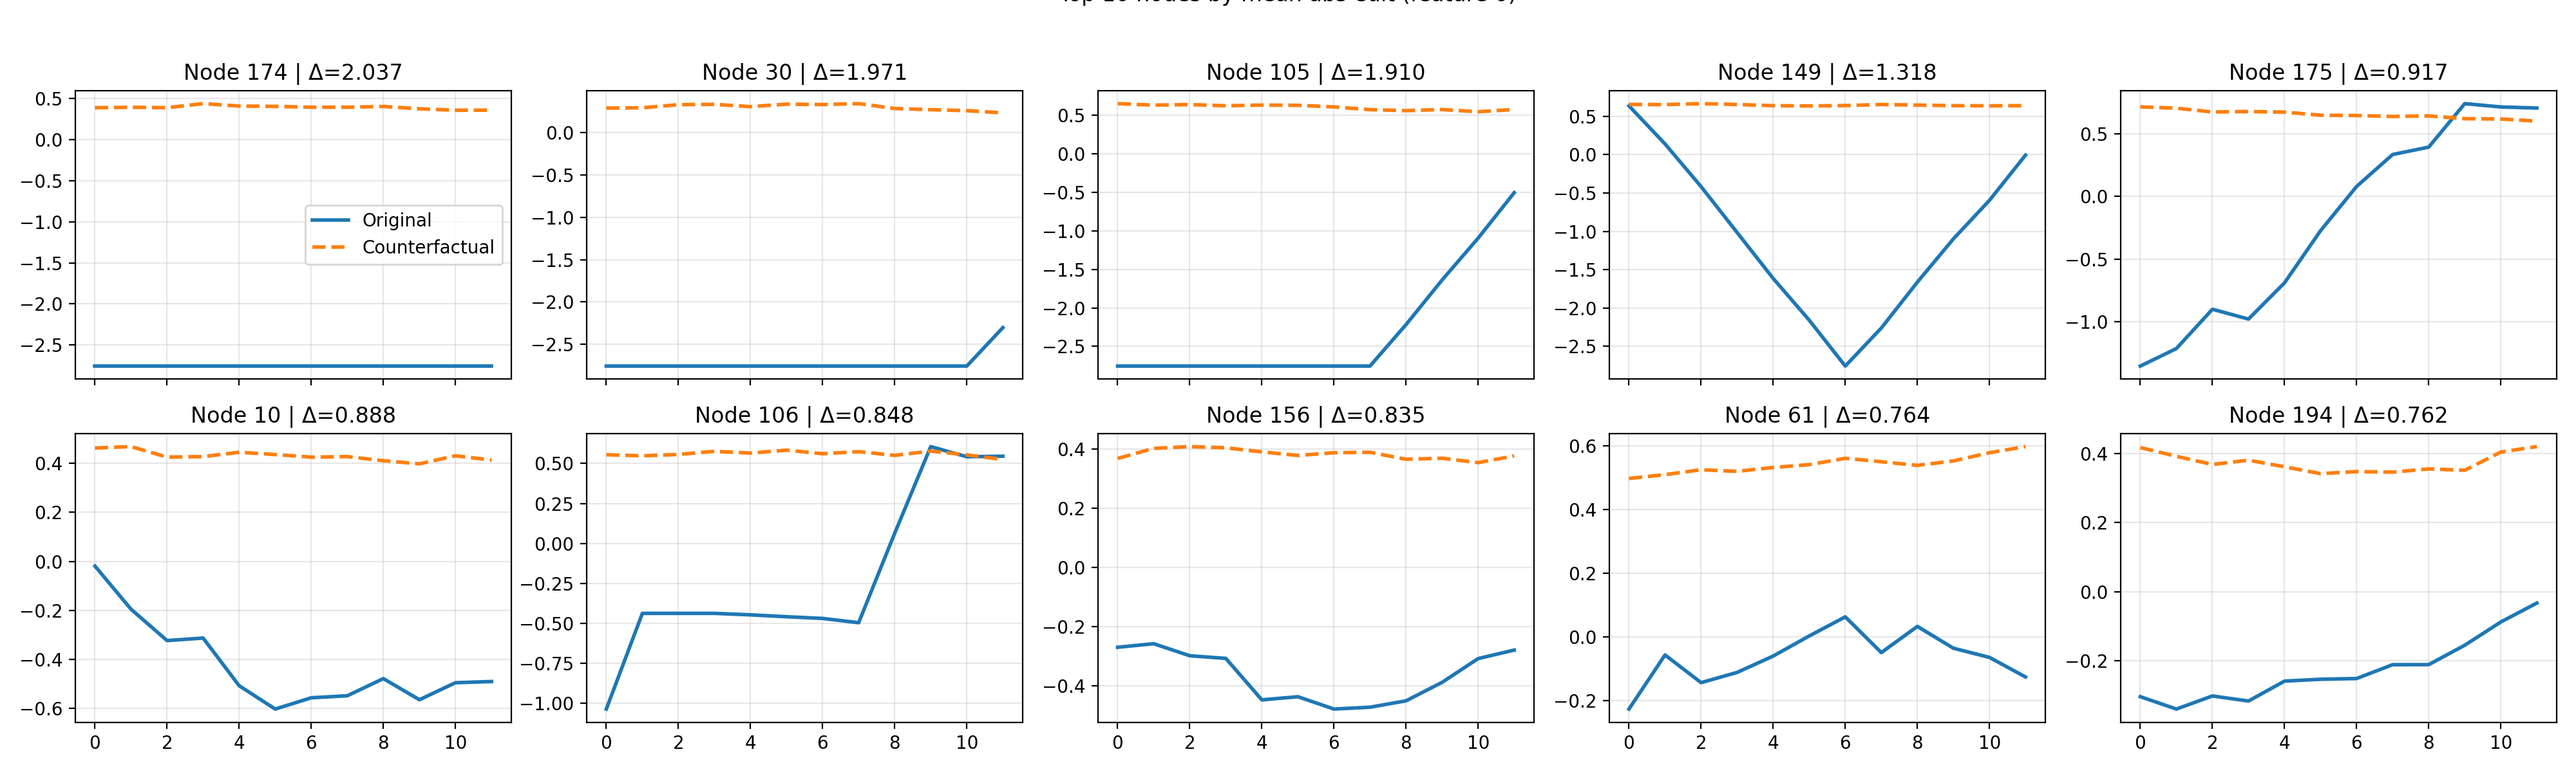
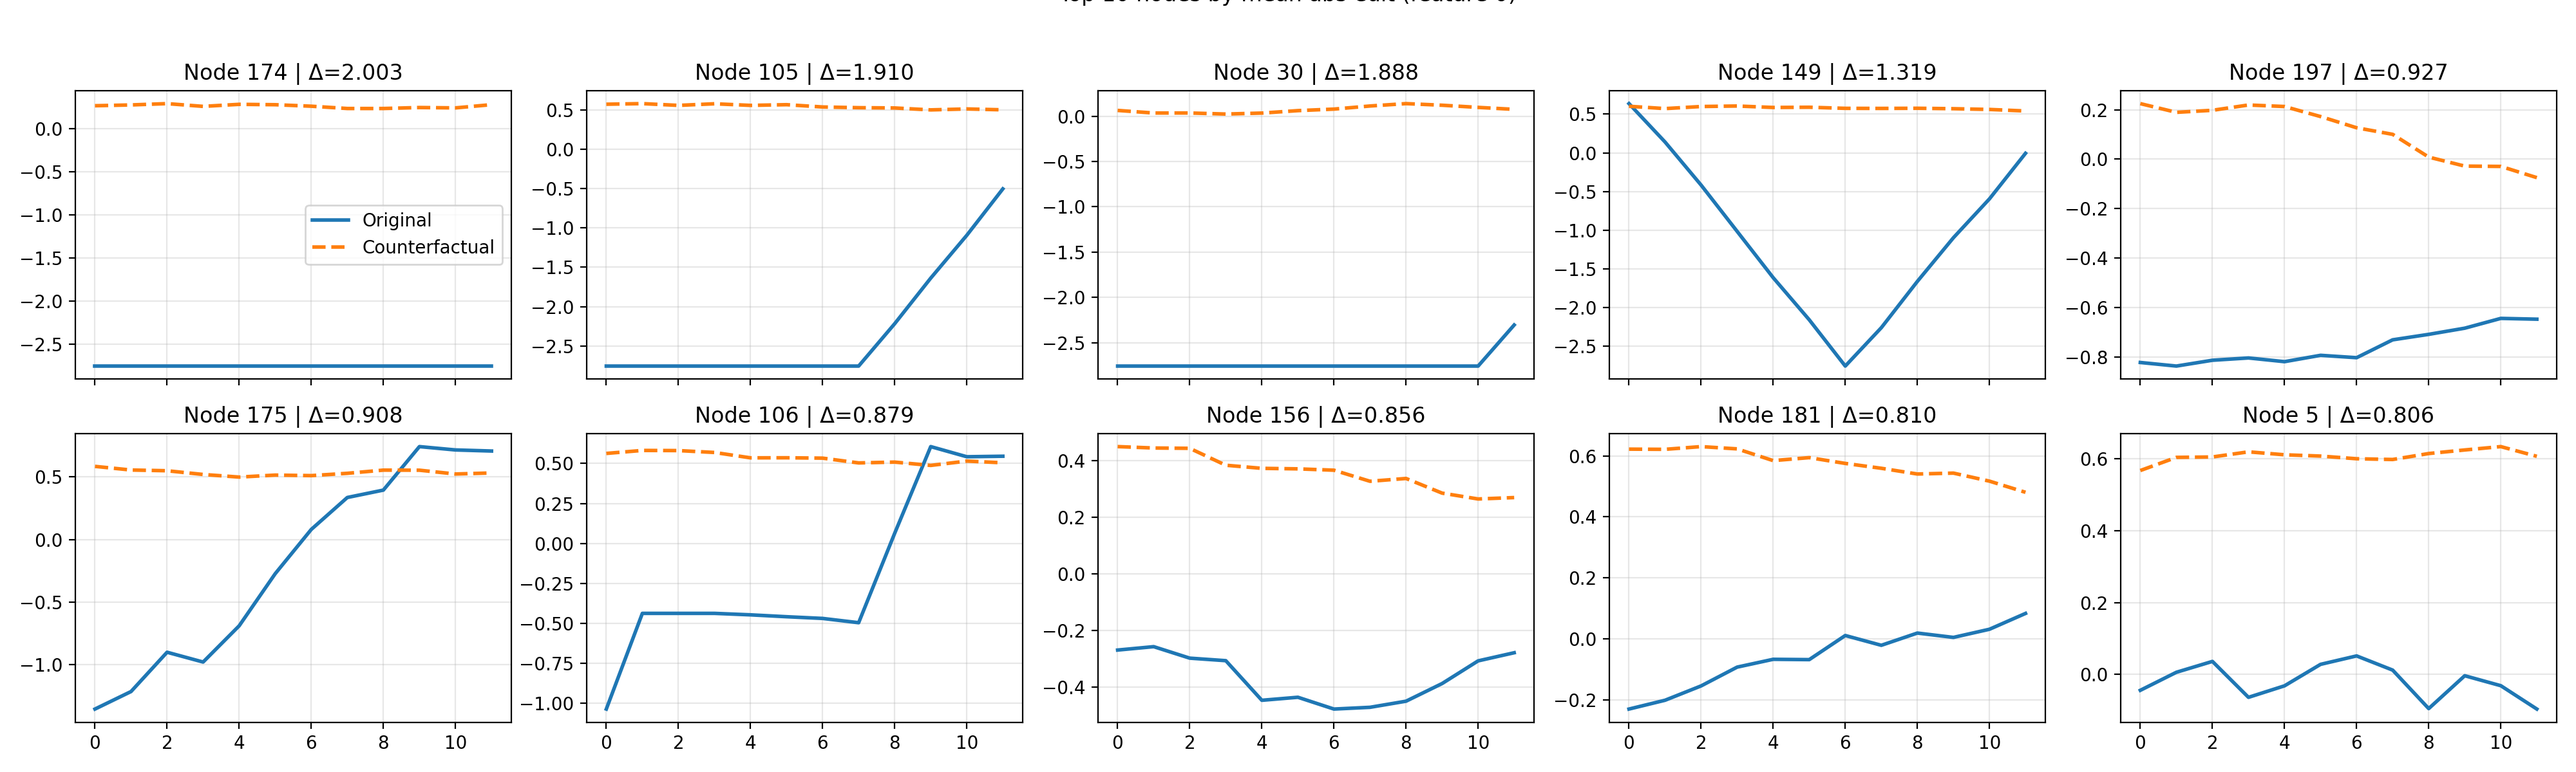
Add subgraph command and related functionality in main.py
- Introduced a new command-line subcommand for precomputing random-walk subgraphs.
- Added multiple arguments for configuring subgraph generation, including dataset selection and random walk parameters.
- Implemented functions to handle subgraph cache management and node weight preparation based on subgraph data.
- Updated counterfactual generation logic to incorporate node loss strategies using subgraph information.

diff --git a/main.py b/main.py
@@ -26,6 +26,15 @@ from counterfactual import (
 )
 from counterfactual.guidance import prepare_forecaster_input
 from counterfactual.noise_schedule import build_beta_schedule, prepare_diffusion_terms
+from counterfactual.subgraph import (
+    RandomWalkConfig,
+    build_node_weight_vector,
+    build_random_walk_subgraphs,
+    ensure_subgraph_cache,
+    load_subgraph,
+    random_walk_subgraph,
+    save_subgraphs,
+)
 from preprocessing.data_reader import TemporalDatasetBundle, load_dataset
 from train import build_dataloaders, train_pipeline, test_pipeline
 
@@ -116,6 +125,26 @@ def add_diffusion_subcommand(subparsers: argparse._SubParsersAction[argparse.Arg
     return parser
 
 
+def add_subgraph_subcommand(subparsers: argparse._SubParsersAction[argparse.ArgumentParser]) -> argparse.ArgumentParser:
+    parser = subparsers.add_parser("subgraphs", help="Precompute random-walk subgraphs for each node.")
+    parser.add_argument(
+        "--dataset",
+        type=str,
+        choices=["METRLA", "PEMSBAY", "METRLA_15", "METRLA_30"],
+        default="METRLA",
+    )
+    parser.add_argument("--data_root", type=str, default=None, help="Root directory containing dataset folders.")
+    parser.add_argument("--output_dir", type=str, default=None, help="Override subgraph output directory.")
+    parser.add_argument("--num_walks", type=int, default=128, help="Number of random walks per node.")
+    parser.add_argument("--walk_length", type=int, default=8, help="Steps per walk.")
+    parser.add_argument("--restart_prob", type=float, default=0.15, help="Restart probability during walks.")
+    parser.add_argument("--top_k", type=int, default=16, help="Keep the top-k visited neighbors per node.")
+    parser.add_argument("--seed", type=int, default=42, help="Random seed for reproducibility.")
+    parser.add_argument("--overwrite", action="store_true", help="Rebuild and overwrite any existing cache.")
+    parser.set_defaults(handler=run_subgraph_command)
+    return parser
+
+
 def add_counterfactual_subcommand(subparsers: argparse._SubParsersAction[argparse.ArgumentParser]) -> argparse.ArgumentParser:
     parser = subparsers.add_parser("counterfactual", help="Generate diffusion-guided counterfactual past windows.")
     parser.add_argument("--forecaster_checkpoint", type=str, required=True)
@@ -164,8 +193,32 @@ def add_counterfactual_subcommand(subparsers: argparse._SubParsersAction[argpars
         "--target_focus_percent",
         type=float,
         default=80.0,
-        help="Percentage of forecast loss weight given to the adjusted node; remaining weight is distributed to other nodes by inverse hop distance.",
+        help="Percentage of forecast loss weight given to the adjusted node; remaining weight is distributed according to the chosen node-loss strategy.",
     )
+    parser.add_argument(
+        "--node_loss_strategy",
+        type=str,
+        choices=["subgraph", "hop", "uniform"],
+        default="subgraph",
+        help="How to distribute forecast loss across nodes for guidance.",
+    )
+    parser.add_argument(
+        "--subgraph_dir",
+        type=str,
+        default=None,
+        help="Directory containing per-node subgraph .npy files (defaults to <data_root>/<dataset>/subgraphs_random_walk).",
+    )
+    parser.add_argument("--subgraph_num_walks", type=int, default=128, help="Random walks per node for subgraph cache.")
+    parser.add_argument("--subgraph_walk_length", type=int, default=8, help="Steps per random walk.")
+    parser.add_argument("--subgraph_restart_prob", type=float, default=0.15, help="Restart probability for random walks.")
+    parser.add_argument("--subgraph_top_k", type=int, default=16, help="Top-k visited neighbors to keep per node.")
+    parser.add_argument(
+        "--subgraph_spillover_percent",
+        type=float,
+        default=5.0,
+        help="Percent of remaining (non-target) weight spilled uniformly outside the subgraph.",
+    )
+    parser.add_argument("--subgraph_seed", type=int, default=42, help="Seed for building subgraph cache.")
     parser.add_argument(
         "--plot_node",
         type=int,
@@ -275,6 +328,7 @@ def parse_args() -> argparse.Namespace:
     subparsers = parser.add_subparsers(dest="command", required=True)
     add_forecaster_subcommand(subparsers)
     add_diffusion_subcommand(subparsers)
+    add_subgraph_subcommand(subparsers)
     add_counterfactual_subcommand(subparsers)
     args = parser.parse_args()
     gpus = getattr(args, "gpus", None)
@@ -473,6 +527,30 @@ def run_diffusion_command(args: argparse.Namespace) -> None:
             ema_state = trainer.ema.state_dict() if trainer.ema is not None else None
             save_diffusion_checkpoint(checkpoint_path, epoch, diffusion, optimizer, diffusion_config, dataset_meta, model_meta, metrics, ema_state)
             print(f"Saved best diffusion checkpoint to {checkpoint_path}")
+
+
+def run_subgraph_command(args: argparse.Namespace) -> None:
+    dataset_dir = resolve_dataset_dir(args.dataset, args.data_root)
+    adj_path = dataset_dir / "adj_mat.npy"
+    if not adj_path.exists():
+        raise FileNotFoundError(f"Adjacency file not found at {adj_path}")
+
+    adjacency = np.load(adj_path)
+    cache_dir = Path(args.output_dir) if args.output_dir else default_subgraph_dir(args.dataset, args.data_root)
+    config = RandomWalkConfig(
+        num_walks=args.num_walks,
+        walk_length=args.walk_length,
+        restart_prob=args.restart_prob,
+        top_k=args.top_k,
+        seed=args.seed,
+    )
+    if args.overwrite:
+        subgraphs = build_random_walk_subgraphs(adjacency, config)
+        save_subgraphs(subgraphs, cache_dir, config)
+        print(f"Rebuilt subgraph cache at {cache_dir}")
+    else:
+        ensure_subgraph_cache(adjacency, cache_dir, config)
+        print(f"Subgraph cache ready at {cache_dir}")
 
 
 def prepare_mask(lag: int, num_nodes: int, num_features: int, source: Optional[str]) -> torch.Tensor:
@@ -807,6 +885,69 @@ def compute_hop_node_weights(adjacency: torch.Tensor, target_node: int, focus_pe
     return weights / total
 
 
+def resolve_dataset_dir(dataset: str, data_root: Optional[str | Path]) -> Path:
+    base = Path(data_root) if data_root is not None else Path(__file__).resolve().parent / "preprocessing" / "data"
+    return base / dataset.upper()
+
+
+def default_subgraph_dir(dataset: str, data_root: Optional[str | Path]) -> Path:
+    return resolve_dataset_dir(dataset, data_root) / "subgraphs_random_walk"
+
+
+def prepare_node_weights(
+    adjacency: torch.Tensor,
+    target_node: int,
+    focus_percent: float,
+    strategy: str,
+    dataset: str,
+    data_root: Optional[str | Path],
+    subgraph_args: argparse.Namespace,
+) -> Optional[torch.Tensor]:
+    if target_node < 0:
+        return None
+
+    adj_for_weights = adjacency[0] if adjacency.dim() == 3 else adjacency
+    num_nodes = adj_for_weights.shape[0]
+    if target_node >= num_nodes:
+        raise ValueError(f"target_adjust_node {target_node} is out of range for {num_nodes} nodes")
+    if strategy == "uniform":
+        weights = torch.ones(num_nodes, dtype=torch.float32)
+        return weights / weights.sum().clamp(min=1e-8)
+
+    if strategy == "hop":
+        return compute_hop_node_weights(adjacency, target_node, focus_percent)
+
+    subgraph_cache = Path(subgraph_args.subgraph_dir) if subgraph_args.subgraph_dir else default_subgraph_dir(dataset, data_root)
+    rw_config = RandomWalkConfig(
+        num_walks=subgraph_args.subgraph_num_walks,
+        walk_length=subgraph_args.subgraph_walk_length,
+        restart_prob=subgraph_args.subgraph_restart_prob,
+        top_k=subgraph_args.subgraph_top_k,
+        seed=subgraph_args.subgraph_seed,
+    )
+    adj_np = adjacency.detach().cpu().numpy()
+    if adj_np.ndim == 3:
+        adj_np = adj_np[0]
+    try:
+        ensure_subgraph_cache(adj_np, subgraph_cache, rw_config)
+    except Exception as exc:  # pragma: no cover - cache writes may be skipped in read-only envs
+        print(f"Warning: could not build subgraph cache at {subgraph_cache}: {exc}")
+    subgraph_path = subgraph_cache / f"node_{target_node}.npy"
+    if subgraph_path.exists():
+        nodes, weights = load_subgraph(subgraph_path)
+    else:
+        nodes, weights = random_walk_subgraph(adj_np, target_node, rw_config)
+    spillover_fraction = max(0.0, subgraph_args.subgraph_spillover_percent / 100.0)
+    return build_node_weight_vector(
+        num_nodes=adj_np.shape[0],
+        target_node=target_node,
+        target_share=focus_percent / 100.0,
+        subgraph_nodes=nodes,
+        subgraph_weights=weights,
+        spillover_fraction=spillover_fraction,
+    )
+
+
 def truncate_horizon(tensor: torch.Tensor, horizon: Optional[int]) -> torch.Tensor:
     if horizon is None or tensor.shape[1] <= horizon:
         return tensor
@@ -1087,9 +1228,16 @@ def run_counterfactual_command(args: argparse.Namespace) -> None:
         )
     else:
         anchor_weights = torch.linspace(anchor_start, anchor_end, steps=cf_horizon, dtype=torch.float32)
-    node_weights = None
-    if args.target_adjust_node >= 0:
-        node_weights = compute_hop_node_weights(bundle.adjacency, args.target_adjust_node, args.target_focus_percent)
+    subgraph_cache_dir = Path(args.subgraph_dir) if args.subgraph_dir else default_subgraph_dir(dataset_meta["dataset"], args.data_root)
+    node_weights = prepare_node_weights(
+        adjacency=bundle.adjacency,
+        target_node=args.target_adjust_node,
+        focus_percent=args.target_focus_percent,
+        strategy=args.node_loss_strategy,
+        dataset=dataset_meta["dataset"],
+        data_root=args.data_root,
+        subgraph_args=args,
+    )
     mask = prepare_mask(past_window.shape[0], bundle.num_nodes, bundle.num_features, args.mask_path)
     if args.target_adjust_node >= 0:
         # Prevent direct edits to the target node; guidance can only modify other nodes.
@@ -1212,6 +1360,16 @@ def run_counterfactual_command(args: argparse.Namespace) -> None:
         "target_adjust_offset": args.target_adjust_offset,
         "target_adjust_node": args.target_adjust_node,
         "target_focus_percent": args.target_focus_percent,
+        "node_loss_strategy": args.node_loss_strategy,
+        "subgraph_cache_dir": str(subgraph_cache_dir),
+        "subgraph_params": {
+            "num_walks": args.subgraph_num_walks,
+            "walk_length": args.subgraph_walk_length,
+            "restart_prob": args.subgraph_restart_prob,
+            "top_k": args.subgraph_top_k,
+            "spillover_percent": args.subgraph_spillover_percent,
+            "seed": args.subgraph_seed,
+        },
         "use_predicted_target": args.use_predicted_target,
         "plot_path": str(plot_path),
         "top_cf_window_plot_path": str(top_window_plot_path) if top_window_plot_path else None,

diff --git a/counterfactual/subgraph.py b/counterfactual/subgraph.py
@@ -1,0 +1,160 @@
+from __future__ import annotations
+
+import json
+from dataclasses import dataclass
+from pathlib import Path
+from typing import Iterable, List, Sequence, Tuple
+
+import numpy as np
+import torch
+
+
+@dataclass(frozen=True)
+class RandomWalkConfig:
+    num_walks: int = 128
+    walk_length: int = 8
+    restart_prob: float = 0.15
+    top_k: int = 16
+    seed: int | None = None
+
+
+def _normalize_transition(adjacency: np.ndarray) -> np.ndarray:
+    row_sums = adjacency.sum(axis=1, keepdims=True)
+    row_sums = np.where(row_sums > 0, row_sums, 1.0)
+    return adjacency / row_sums
+
+
+def random_walk_subgraph(
+    adjacency: np.ndarray,
+    start: int,
+    config: RandomWalkConfig,
+) -> Tuple[np.ndarray, np.ndarray]:
+    """Return (nodes, weights) reached from start via weighted random walks."""
+
+    num_nodes = adjacency.shape[0]
+    probs = _normalize_transition(adjacency)
+    visits = np.zeros(num_nodes, dtype=np.float64)
+    rng = np.random.default_rng(config.seed)
+
+    for _ in range(config.num_walks):
+        node = start
+        for _ in range(config.walk_length):
+            if rng.random() < config.restart_prob:
+                node = start
+            neighbors = np.nonzero(probs[node] > 0)[0]
+            if neighbors.size == 0:
+                break
+            p = probs[node, neighbors]
+            p = p / p.sum()
+            node = rng.choice(neighbors, p=p)
+            visits[node] += 1.0
+
+    visits[start] = 0.0  # avoid double-counting the anchor
+    if config.top_k is not None and config.top_k > 0:
+        order = np.argsort(visits)[::-1][: config.top_k]
+    else:
+        order = np.argsort(visits)[::-1]
+    weights = visits[order].astype(np.float32)
+    if weights.sum() > 0:
+        weights = weights / weights.sum()
+    return order.astype(np.int64), weights
+
+
+def build_random_walk_subgraphs(adjacency: np.ndarray, config: RandomWalkConfig) -> List[Tuple[np.ndarray, np.ndarray]]:
+    return [random_walk_subgraph(adjacency, node, config) for node in range(adjacency.shape[0])]
+
+
+def _structured_array(nodes: np.ndarray, weights: np.ndarray) -> np.ndarray:
+    arr = np.zeros(nodes.shape[0], dtype=[("node", np.int64), ("weight", np.float32)])
+    arr["node"] = nodes.astype(np.int64)
+    arr["weight"] = weights.astype(np.float32)
+    return arr
+
+
+def save_subgraphs(
+    subgraphs: Sequence[Tuple[np.ndarray, np.ndarray]],
+    output_dir: Path,
+    config: RandomWalkConfig,
+) -> None:
+    output_dir.mkdir(parents=True, exist_ok=True)
+    for idx, (nodes, weights) in enumerate(subgraphs):
+        arr = _structured_array(nodes, weights)
+        np.save(output_dir / f"node_{idx}.npy", arr)
+    meta = {
+        "num_nodes": len(subgraphs),
+        "num_walks": config.num_walks,
+        "walk_length": config.walk_length,
+        "restart_prob": config.restart_prob,
+        "top_k": config.top_k,
+        "seed": config.seed,
+    }
+    (output_dir / "meta.json").write_text(json.dumps(meta, indent=2))
+
+
+def load_subgraph(path: Path) -> Tuple[np.ndarray, np.ndarray]:
+    arr = np.load(path, allow_pickle=False)
+    nodes = arr["node"].astype(np.int64)
+    weights = arr["weight"].astype(np.float32)
+    return nodes, weights
+
+
+def ensure_subgraph_cache(
+    adjacency: np.ndarray,
+    output_dir: Path,
+    config: RandomWalkConfig,
+) -> None:
+    expected = adjacency.shape[0]
+    files_exist = all((output_dir / f"node_{i}.npy").exists() for i in range(expected))
+    if files_exist:
+        return
+    subgraphs = build_random_walk_subgraphs(adjacency, config)
+    save_subgraphs(subgraphs, output_dir, config)
+
+
+def _normalize_weights_or_uniform(weights: np.ndarray, size: int) -> np.ndarray:
+    if weights.size == 0:
+        return np.ones(size, dtype=np.float32) / max(size, 1)
+    total = weights.sum()
+    if total <= 0:
+        return np.ones_like(weights, dtype=np.float32) / max(len(weights), 1)
+    return (weights / total).astype(np.float32)
+
+
+def build_node_weight_vector(
+    num_nodes: int,
+    target_node: int,
+    target_share: float,
+    subgraph_nodes: Iterable[int],
+    subgraph_weights: Iterable[float],
+    spillover_fraction: float = 0.0,
+) -> torch.Tensor:
+    """Distribute loss across the target node, its subgraph, and optional spillover."""
+
+    target_share = float(max(0.0, min(target_share, 1.0)))
+    remaining = max(0.0, 1.0 - target_share)
+    spillover = max(0.0, min(spillover_fraction, 1.0)) * remaining
+    focus_share = max(0.0, remaining - spillover)
+
+    weights = np.zeros(num_nodes, dtype=np.float32)
+    sub_nodes = np.fromiter(subgraph_nodes, dtype=np.int64)
+    sub_weights = np.fromiter(subgraph_weights, dtype=np.float32)
+    if sub_nodes.size > 0 and focus_share > 0:
+        w = _normalize_weights_or_uniform(sub_weights, sub_nodes.size)
+        weights[sub_nodes] += focus_share * w
+
+    if spillover > 0:
+        mask = np.ones(num_nodes, dtype=bool)
+        mask[target_node] = False
+        if sub_nodes.size > 0:
+            mask[sub_nodes] = False
+        count = int(mask.sum())
+        if count > 0:
+            weights[mask] += spillover / float(count)
+
+    weights[target_node] = target_share
+    total = float(weights.sum())
+    if total <= 0:
+        weights = np.ones(num_nodes, dtype=np.float32) / max(num_nodes, 1)
+    else:
+        weights = weights / total
+    return torch.from_numpy(weights.astype(np.float32))
